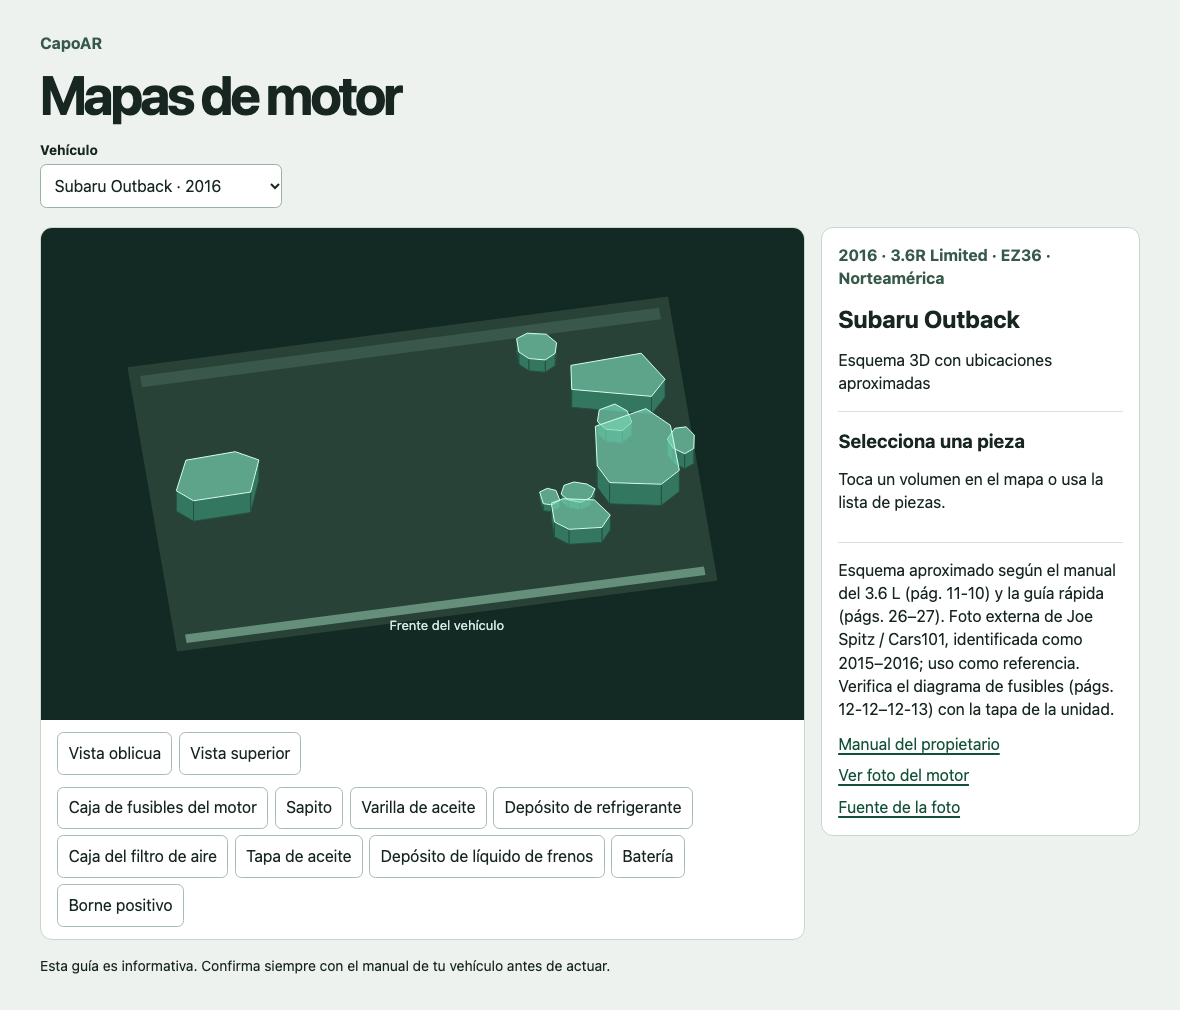
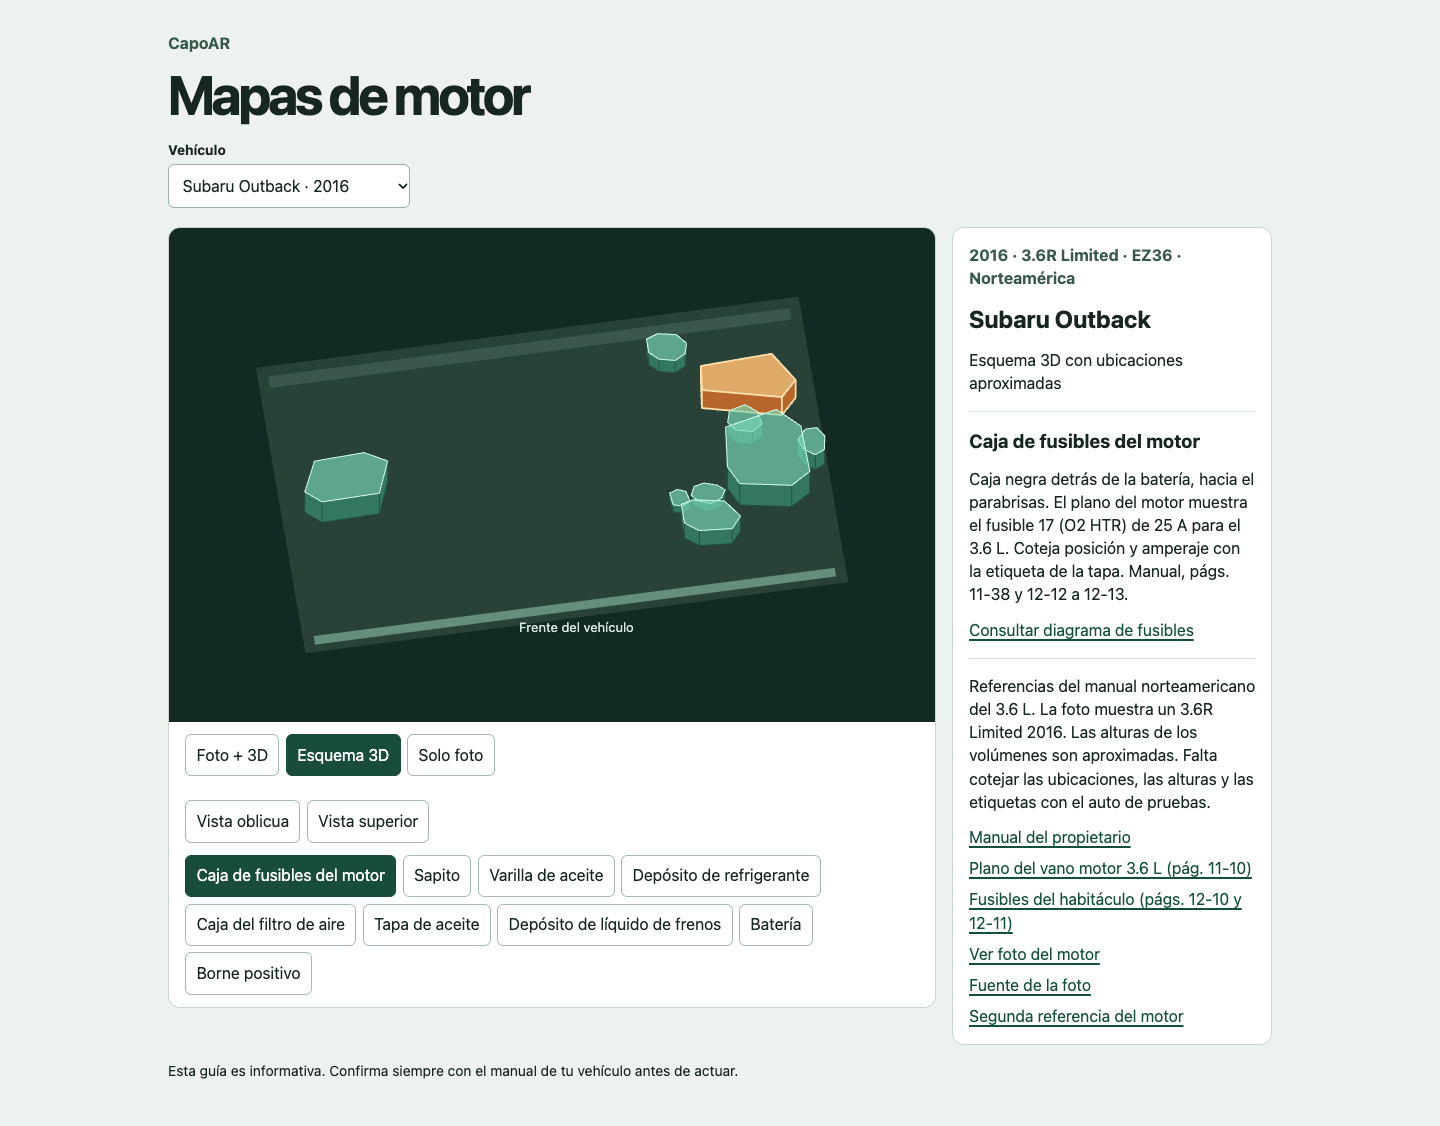
Add the photo-aligned Outback maintenance map

Changed region(s): [[0.0305, 0.0307, 0.9458, 0.9822]]

diff --git a/prototype/vehicle-maps/viewer.js b/prototype/vehicle-maps/viewer.js
@@ -17,11 +17,16 @@ const canvas = byId('scene');
 const context = canvas.getContext('2d');
 const vehicleSelect = byId('vehicle');
 const photo = new Image();
-photo.onload = photo.onerror = () => {
+photo.referrerPolicy = 'no-referrer';
+photo.onload = () => {
   updateCoverage();
   draw();
 };
 let vehicle;
+let mode;
+let reference;
+let photoFailed;
+let scene;
 let selected;
 let yaw;
 let pitch;
@@ -29,12 +34,15 @@ let gesture;
 let faces = [];
 
 function hasPhoto() {
-  return Boolean(vehicle?.photoFile && photo.complete && photo.naturalWidth
-    && photo.getAttribute('src') === vehicle.photoFile);
+  return Boolean(scene?.src && photo.complete && photo.naturalWidth
+    && photo.getAttribute('src') === scene.src);
 }
 
 function updateCoverage() {
-  byId('coverage').textContent = hasPhoto() ? 'Foto de referencia con volúmenes 3D' : 'Esquema 3D con ubicaciones aproximadas';
+  byId('coverage').textContent = hasPhoto()
+    ? mode === 'image' ? 'Foto del motor · Arrastra para girar' : 'Foto con piezas 3D · Arrastra para girar'
+    : photoFailed ? 'La foto no se pudo cargar. Mostrando el esquema 3D.'
+      : mode === 'scheme' ? 'Esquema 3D con ubicaciones aproximadas' : 'Cargando foto del motor…';
 }
 
 function draw() {
@@ -50,7 +58,9 @@ function draw() {
   }
   context.setTransform(pixelRatio, 0, 0, pixelRatio, 0, 0);
   context.clearRect(0, 0, width, height);
-  const ratio = vehicle.aspectRatio || 1.65;
+  faces = [];
+  if (mode !== 'scheme' && !hasPhoto()) return;
+  const ratio = scene.aspectRatio || 1.65;
   const sinYaw = Math.sin(yaw);
   const cosYaw = Math.cos(yaw);
   const sinPitch = Math.sin(pitch);
@@ -85,7 +95,6 @@ function draw() {
   }
   context.restore();
 
-  faces = [];
   function addFace(part, points, side) {
     const area = points.reduce((sum, [x,y], index) => {
       const [nextX,nextY] = points[(index+1) % points.length];
@@ -98,7 +107,7 @@ function draw() {
     const depth = points.reduce((sum, point) => sum + point[2], 0) / points.length;
     faces.push({part, path, depth, side});
   }
-  for (const {part, outline, height: rise} of vehicle.volumes) {
+  for (const {part, outline, height: rise} of scene.volumes) {
     const base = outline.map(point => project(point));
     const top = outline.map(point => project(point, rise));
     outline.forEach((_, index) => {
@@ -131,7 +140,9 @@ function selectPart(part) {
     button.setAttribute('aria-pressed', String(button.dataset.part === selected));
   }
   byId('part-title').textContent = part ? parts[part][0] : 'Selecciona una pieza';
-  byId('part-detail').textContent = part ? parts[part][1] : 'Toca un volumen en el mapa o usa la lista de piezas.';
+  byId('part-detail').textContent = part
+    ? vehicle.partDetails?.[part] ?? parts[part][1]
+    : 'Toca un volumen en el mapa o usa la lista de piezas.';
   byId('fuses').hidden = part !== 'fuses';
   draw();
 }
@@ -142,24 +153,28 @@ function resetView() {
   draw();
 }
 
-function openVehicle() {
+function openScene(nextMode, preserveSelection = true) {
+  photoFailed = false;
+  const previousPart = preserveSelection ? selected : undefined;
   gesture = undefined;
-  vehicle = vehicles[vehicleSelect.value];
   canvas.removeAttribute('data-pickable');
-  if (vehicle.photoFile) photo.src = vehicle.photoFile;
-  else photo.removeAttribute('src');
-  byId('variant').textContent = vehicle.year + ' · ' + vehicle.variant;
-  byId('vehicle-title').textContent = vehicle.title;
+  mode = nextMode;
+  scene = mode === 'scheme' ? vehicle : reference;
+  if (mode === 'image') scene = {...reference, volumes: []};
+  if (scene.src && photo.getAttribute('src') !== scene.src) photo.src = scene.src;
+  if (!scene.src) photo.removeAttribute('src');
+
+  byId('map-modes').hidden = !reference;
+  for (const [id, value] of [['photo-mode', 'photo'], ['scheme-mode', 'scheme'], ['photo-only', 'image']]) {
+    byId(id).setAttribute('aria-pressed', String(mode === value));
+  }
   updateCoverage();
-  byId('note').textContent = vehicle.note;
-  byId('manual').href = vehicle.manualUrl;
-  byId('fuses').href = vehicle.fuseUrl || vehicle.manualUrl;
-  byId('photo-link').hidden = !vehicle.photoUrl;
-  if (vehicle.photoUrl) byId('photo-link').href = vehicle.photoUrl;
-  byId('photo-source').hidden = !vehicle.photoPage;
-  if (vehicle.photoPage) byId('photo-source').href = vehicle.photoPage;
+
+  const credit = byId('photo-credit');
+  credit.hidden = mode === 'scheme' || !reference.credit;
+  credit.textContent = credit.hidden ? '' : reference.credit;
   const buttons = Object.entries(parts)
-    .filter(([part]) => vehicle.volumes.some(volume => volume.part === part))
+    .filter(([part]) => scene.volumes.some(volume => volume.part === part))
     .map(([part, [label]]) => {
       const button = document.createElement('button');
       button.type = 'button';
@@ -168,11 +183,53 @@ function openVehicle() {
       button.onclick = () => selectPart(part);
       return button;
     });
+  byId('parts').hidden = mode === 'image';
   byId('parts').replaceChildren(...buttons);
+  selectPart(scene.volumes.some(volume => volume.part === previousPart) ? previousPart : undefined);
+  if (mode === 'image') {
+    byId('part-title').textContent = 'Recorre el vano motor';
+    byId('part-detail').textContent = 'Arrastra la imagen para mirarla desde otro ángulo.';
+  }
+}
+
+function openVehicle() {
+  vehicle = vehicles[vehicleSelect.value];
+  reference = vehicle.photoFile
+    ? {...vehicle, src: vehicle.photoFile}
+    : vehicle.photoView && {...vehicle.photoView, src: vehicle.photoUrl};
+  byId('variant').textContent = vehicle.year + ' · ' + vehicle.variant;
+  byId('vehicle-title').textContent = vehicle.title;
+  byId('note').textContent = vehicle.note;
+  byId('manual').href = vehicle.manualUrl;
+  byId('fuses').href = vehicle.fuseUrl || vehicle.manualUrl;
+  const links = [
+    ['engine-diagram', vehicle.engineDiagramUrl],
+    ['cabin-fuses', vehicle.cabinFuseUrl],
+    ['photo-link', vehicle.photoUrl],
+    ['photo-source', vehicle.photoPage],
+    ['comparison-photo', vehicle.comparisonPhotoUrl]
+  ];
+  for (const [id, url] of links) {
+    const link = byId(id);
+    link.hidden = !url;
+    if (url) link.href = url;
+    else link.removeAttribute('href');
+  }
   yaw = -.15;
   pitch = 1.05;
-  selectPart(undefined);
+  openScene(vehicle.photoFile ? 'photo' : 'scheme', false);
 }
+
+photo.onerror = () => {
+  if (mode !== 'scheme' && photo.getAttribute('src') === scene?.src) {
+    openScene('scheme');
+    photoFailed = true;
+    updateCoverage();
+  }
+};
+byId('photo-mode').onclick = () => openScene('photo');
+byId('photo-only').onclick = () => openScene('image');
+byId('scheme-mode').onclick = () => openScene('scheme');
 
 function partAt(event) {
   const {left, top} = canvas.getBoundingClientRect();

diff --git a/prototype/vehicle-maps/vehicles.js b/prototype/vehicle-maps/vehicles.js
@@ -4,11 +4,40 @@ const vehicles = {
     title: "Subaru Outback",
     year: 2016,
     variant: "3.6R Limited · EZ36 · Norteamérica",
-    photoPage: "https://www.cars101.com/subaru/outback/outback2016photos1.html",
-    photoUrl: "https://www.cars101.com/subaru/outback/outback15-engine5.jpg",
+    photoPage: "https://www.guideautoweb.com/en/galleries/36282/2016-subaru-outback-3.6r-limited-the-nonconformist/?im=3",
+    photoUrl: "https://images.guideautoweb.com/content/photos/22/75/227579_2016_Subaru_Outback.jpg?640x400=",
+    comparisonPhotoUrl: "https://www.cars101.com/subaru/outback/outback15-engine5.jpg",
     manualUrl: "https://www.subaru.ca/WebPage.aspx?WebPageID=16400&WebSiteID=282&documentID=0118822001437148001",
     fuseUrl: "https://viewer.joomag.com/subaru-outback-manuals-2016-outback-owners-manual/0118822001437148001/p532",
-    note: "Esquema aproximado según el manual del 3.6 L (pág. 11-10) y la guía rápida (págs. 26–27). Foto externa de Joe Spitz / Cars101, identificada como 2015–2016; uso como referencia. Verifica el diagrama de fusibles (págs. 12-12–12-13) con la tapa de la unidad.",
+    engineDiagramUrl: "https://viewer.joomag.com/subaru-outback-manuals-2016-outback-owners-manual/0118822001437148001/p478",
+    cabinFuseUrl: "https://viewer.joomag.com/subaru-outback-manuals-2016-outback-owners-manual/0118822001437148001/p530",
+    note: "Referencias del manual norteamericano del 3.6 L. La foto muestra un 3.6R Limited 2016. Las alturas de los volúmenes son aproximadas. Falta cotejar las ubicaciones, las alturas y las etiquetas con el auto de pruebas.",
+    partDetails: {
+      fuses: "Caja negra detrás de la batería, hacia el parabrisas. El plano del motor muestra el fusible 17 (O2 HTR) de 25 A para el 3.6 L. Coteja posición y amperaje con la etiqueta de la tapa. Manual, págs. 11-38 y 12-12 a 12-13.",
+      washer: "Boca de llenado junto a la batería, hacia el costado del conductor en la versión con volante a la izquierda. Agrega líquido limpiaparabrisas hasta la marca FULL. En la foto se reconoce por la tapa amarilla en el borde del vano. Manual, págs. 11-10 y 11-32.",
+      dipstick: "Manilla amarilla pequeña junto a la tapa de aceite, hacia el frente. Con el auto nivelado y el motor apagado, espera unos minutos. Saca la varilla, límpiala, insértala hasta el fondo y vuelve a sacarla para leer entre LOW y FULL. Manual, págs. 11-11 y 11-12.",
+      coolant: "Depósito translúcido cerca del frente, junto al radiador. Lee LOW y FULL desde afuera con el motor frío. Evita abrir la tapa del radiador con el motor caliente. Manual, págs. 11-10 y 11-14.",
+      air_filter: "Carcasa negra conectada al conducto corrugado de admisión, al lado opuesto de la batería. Los broches sujetan la tapa de la carcasa. Manual, págs. 11-15 y 11-16.",
+      oil_cap: "Tapa amarilla redonda junto a la manilla de la varilla. Es la boca de llenado del aceite del motor. Manual, págs. 11-11 y 11-12.",
+      brake_fluid: "Depósito pequeño y translúcido cerca del parabrisas. En el 3.6 L, lee MIN y MAX desde la cara exterior, hacia el guardabarros. Manual, págs. 11-19 y 11-20.",
+      battery: "Batería de 12 V delante de la caja de fusibles y junto a la boca del limpiaparabrisas. Manual, págs. 11-10 y 11-37.",
+      positive: "Borne identificado con el símbolo +. En la foto de referencia está bajo la cubierta roja. Consulta el procedimiento de arranque con cables del manual."
+    },
+    photoView: {
+      aspectRatio: 1.6,
+      credit: "Foto de Michel Deslauriers / The Car Guide. Outback 3.6R Limited 2016 de Canadá.",
+      volumes: [
+        {part: 'fuses', outline: [[0.78646,0.39583],[0.79948,0.38417],[0.90677,0.3925],[0.92083,0.405],[0.94531,0.49333],[0.94271,0.51417],[0.92031,0.5225],[0.88385,0.50667],[0.82708,0.48167],[0.79063,0.455],[0.77969,0.42583]], height: 0.036},
+        {part: 'washer', outline: [[0.94531,0.5525],[0.95365,0.54417],[0.96667,0.54333],[0.98125,0.55083],[0.98698,0.5625],[0.98698,0.57333],[0.97969,0.58333],[0.9651,0.58667],[0.95312,0.58167],[0.94375,0.57167],[0.94219,0.56167]], height: 0.015},
+        {part: 'dipstick', outline: [[0.70417,0.71583],[0.71146,0.71583],[0.71823,0.72],[0.7224,0.73333],[0.72292,0.74167],[0.71771,0.75],[0.71042,0.7475],[0.70625,0.73833]], height: 0.011},
+        {part: 'coolant', outline: [[0.71042,0.7925],[0.71823,0.77917],[0.73646,0.77083],[0.75677,0.77083],[0.77917,0.7775],[0.79167,0.78583],[0.79271,0.805],[0.79948,0.82833],[0.79375,0.84],[0.76302,0.8425],[0.7375,0.84083],[0.73958,0.82583],[0.73073,0.81333],[0.70937,0.80917]], height: 0.025},
+        {part: 'air_filter', outline: [[0.05677,0.5625],[0.06719,0.53417],[0.07812,0.49917],[0.1,0.4975],[0.16042,0.50083],[0.18646,0.50833],[0.19115,0.5275],[0.18594,0.54917],[0.20052,0.55417],[0.21094,0.56917],[0.2125,0.61],[0.17448,0.61],[0.14219,0.60583],[0.08125,0.6075],[0.05729,0.59833]], height: 0.039},
+        {part: 'oil_cap', outline: [[0.73802,0.73167],[0.74531,0.7225],[0.75573,0.71583],[0.76667,0.7175],[0.77812,0.7275],[0.78281,0.74],[0.78125,0.75583],[0.77292,0.76583],[0.76094,0.7725],[0.74687,0.76917],[0.73906,0.76083],[0.73646,0.74833]], height: 0.012},
+        {part: 'brake_fluid', outline: [[0.69635,0.3125],[0.70365,0.29917],[0.7224,0.2975],[0.73542,0.30083],[0.74531,0.30667],[0.74896,0.3225],[0.74792,0.34667],[0.74271,0.36417],[0.73698,0.37583],[0.71198,0.375],[0.70156,0.36417],[0.69896,0.34917]], height: 0.024},
+        {part: 'battery', outline: [[0.82708,0.56667],[0.86406,0.5625],[0.92292,0.57167],[0.93594,0.6],[0.92604,0.61833],[0.9375,0.6325],[0.9651,0.70417],[0.97031,0.72333],[0.92865,0.73],[0.85052,0.7],[0.81615,0.66667],[0.8125,0.63583],[0.81615,0.5975]], height: 0.034},
+        {part: 'positive', outline: [[0.82292,0.5125],[0.8375,0.50667],[0.85156,0.50833],[0.85938,0.53167],[0.86406,0.55667],[0.8625,0.57667],[0.85313,0.5825],[0.83594,0.57667],[0.8224,0.56417],[0.82031,0.5375]], height: 0.024},
+      ]
+    },
     volumes: [
       {part: 'fuses', outline: [[0.797,0.255],[0.928,0.245],[0.963,0.345],[0.933,0.398],[0.791,0.338]], height: 0.066},
       {part: 'washer', outline: [[0.949,0.542],[0.966,0.508],[0.987,0.508],[0.999,0.54],[0.994,0.586],[0.976,0.6],[0.957,0.576]], height: 0.055},

diff --git a/prototype/vehicle-maps/index.html b/prototype/vehicle-maps/index.html
@@ -19,7 +19,12 @@
     <div class="layout">
       <section class="card" aria-label="Mapa giratorio">
         <canvas id="scene" aria-label="Mapa 3D. Arrastra para girar o selecciona una pieza con los botones de abajo."></canvas>
-        <div class="controls">
+        <div class="controls" id="map-modes" aria-label="Modo del mapa" hidden>
+          <button id="photo-mode" type="button" aria-pressed="false">Foto + 3D</button>
+          <button id="scheme-mode" type="button" aria-pressed="true">Esquema 3D</button>
+          <button id="photo-only" type="button" aria-pressed="false">Solo foto</button>
+        </div>
+        <div class="controls" aria-label="Orientación del mapa">
           <button id="angle" type="button">Vista oblicua</button>
           <button id="top" type="button">Vista superior</button>
         </div>
@@ -28,17 +33,21 @@
       <section class="card detail">
         <p class="variant" id="variant"></p>
         <h2 id="vehicle-title"></h2>
-        <p id="coverage"></p>
+        <p id="coverage" role="status"></p>
         <div class="selection" aria-live="polite">
           <h3 id="part-title">Selecciona una pieza</h3>
           <p id="part-detail">Toca un volumen en el mapa o usa la lista de piezas.</p>
           <a id="fuses" target="_blank" rel="noopener" hidden>Consultar diagrama de fusibles</a>
         </div>
         <p id="note"></p>
+        <p id="photo-credit" hidden></p>
         <p class="sources">
           <a id="manual" target="_blank" rel="noopener">Manual del propietario</a>
+          <a id="engine-diagram" target="_blank" rel="noopener" hidden>Plano del vano motor 3.6 L (pág. 11-10)</a>
+          <a id="cabin-fuses" target="_blank" rel="noopener" hidden>Fusibles del habitáculo (págs. 12-10 y 12-11)</a>
           <a id="photo-link" target="_blank" rel="noopener" hidden>Ver foto del motor</a>
           <a id="photo-source" target="_blank" rel="noopener" hidden>Fuente de la foto</a>
+          <a id="comparison-photo" target="_blank" rel="noopener" hidden>Segunda referencia del motor</a>
         </p>
       </section>
     </div>

diff --git a/prototype/vehicle-maps/README.md b/prototype/vehicle-maps/README.md
@@ -1,13 +1,21 @@
 # Vehicle maps prototype
 
-Open `index.html` directly in a current desktop or mobile browser. The viewer
-has no build step or network dependencies for the maps. It links to manuals and
-reference photography when available.
+Open `index.html` directly in a current desktop or mobile browser. The eight
+schematic maps work offline. The Outback also has a photo with selectable 3D
+parts and a photo-only view. Both photo modes load the reference from its
+publisher. If the image is unavailable, the viewer returns to the schematic.
 
-The catalog stores relative footprints and approximate extrusion heights for each
-vehicle variant. All coordinates are illustrative. Physical measurements and
-on-vehicle tracking tests are required before using them as AR anchors.
+The Outback 3.6R Limited reference is a photo of the 2016 Canadian model taken
+by Michel Deslauriers for The Car Guide. Its full engine bay shows the washer
+cap that is partly cropped in the Cars101 comparison photo. The nine part
+footprints were traced against the full photo and checked against Subaru's
+North American owner's manual (engine bay, p. 11-10). The engine and cabin fuse
+diagrams are linked separately (pp. 12-12–12-13 and 12-10–12-11 respectively).
+
+The catalog stores image-relative footprints and approximate extrusion heights.
+Measure the actual vehicle and test on-vehicle tracking before using these
+positions as AR anchors.
 
 Keep photos that lack a documented license on their original sites. For a local
-preview with an approved photo, set `photoFile` and `aspectRatio` for a catalog
-entry and use coordinates already calibrated to that image and crop.
+preview with an approved photo, set `photoFile` and `aspectRatio` for an entry
+and use footprints calibrated to that image and crop.
